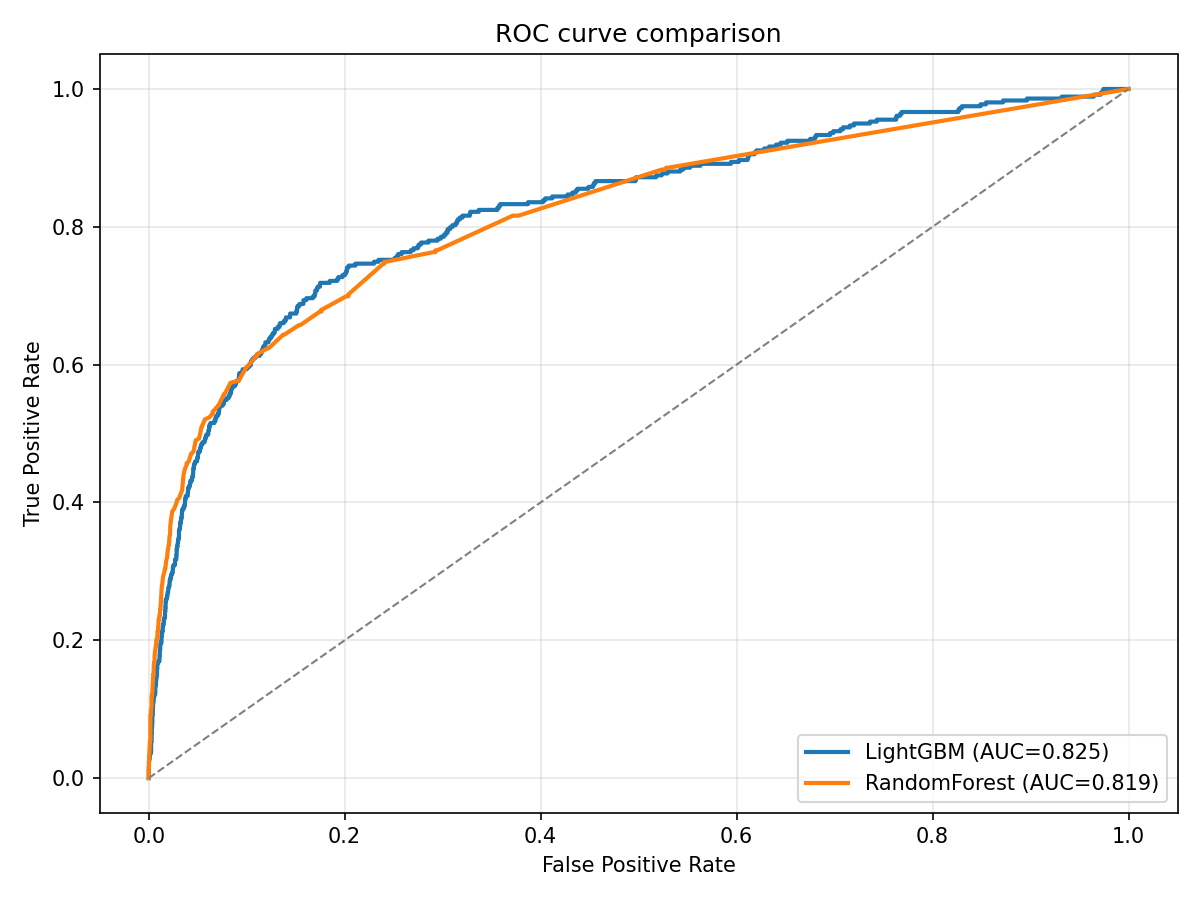
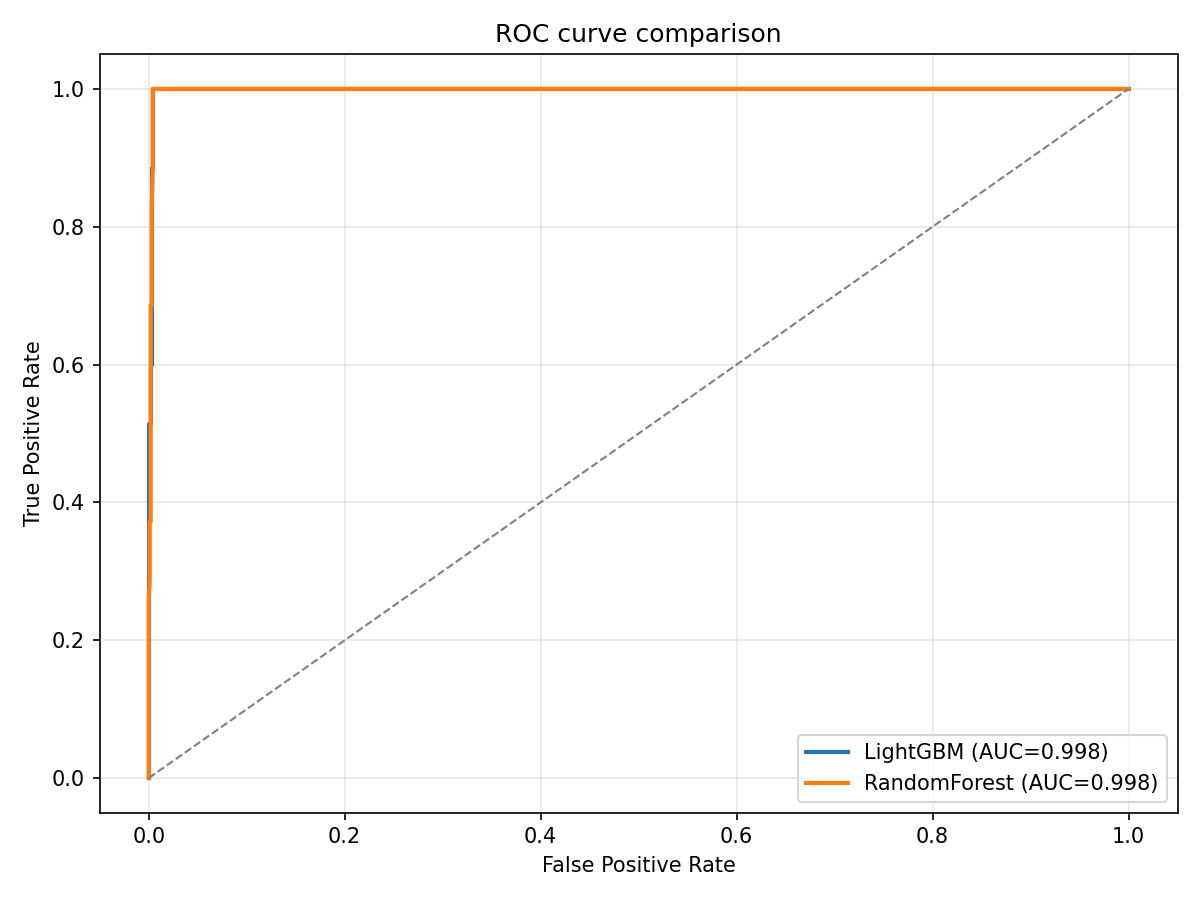
commit Day41

Changed region(s): [[0.1233, 0.0933, 0.925, 0.84], [0.2158, 0.1556, 0.6783, 0.4044], [0.7092, 0.8089, 0.9558, 0.9022]]

diff --git a/products/fraudguard/training/promote.py b/products/fraudguard/training/promote.py
@@ -1,0 +1,124 @@
+import json
+import os
+from pathlib import Path
+
+from mlflow import MlflowClient
+
+MLFLOW_TRACKING_URI = os.getenv("MLFLOW_TRACKING_URI", "http://localhost:5001")
+MODEL_NAME = os.getenv("MLFLOW_MODEL_NAME", "fraudguard-risk-model")
+
+MIN_ROC_AUC = float(os.getenv("PROMOTION_MIN_ROC_AUC", "0.60"))
+MIN_PR_AUC = float(os.getenv("PROMOTION_MIN_PR_AUC", "0.03"))
+MIN_RECALL = float(os.getenv("PROMOTION_MIN_RECALL", "0.50"))
+
+REPORT_PATH = Path("reports/model/promotion_report.json")
+
+
+def _get_candidate_version(client: MlflowClient):
+    try:
+        candidate = client.get_model_version_by_alias(MODEL_NAME, "candidate")
+        return candidate.version
+
+    except Exception as err:
+        versions = client.search_model_versions(f"name='{MODEL_NAME}'")
+        candidate_versions = [
+            version for version in versions if version.tags.get("lifecycle") == "candidate"
+        ]
+
+        if not candidate_versions:
+            raise RuntimeError("No candidate model version found.") from err
+
+        return sorted(candidate_versions, key=lambda version: int(version.version))[-1].version
+
+
+def _get_run_metrics(client: MlflowClient, model_version: str) -> dict:
+    version = client.get_model_version(MODEL_NAME, model_version)
+    run_id = version.run_id
+
+    if not run_id:
+        run_id = version.tags.get("source_run_id")
+
+    if not run_id:
+        raise RuntimeError(f"No run_id found for model version {model_version}")
+
+    run = client.get_run(run_id)
+    return run.data.metrics
+
+
+def evaluate_promotion(metrics: dict) -> tuple[bool, list[str]]:
+    failures = []
+
+    if metrics.get("roc_auc", 0.0) < MIN_ROC_AUC:
+        failures.append(f"roc_auc below threshold: {metrics.get('roc_auc')} < {MIN_ROC_AUC}")
+
+    if metrics.get("pr_auc", 0.0) < MIN_PR_AUC:
+        failures.append(f"pr_auc below threshold: {metrics.get('pr_auc')} < {MIN_PR_AUC}")
+
+    if metrics.get("recall", 0.0) < MIN_RECALL:
+        failures.append(f"recall below threshold: {metrics.get('recall')} < {MIN_RECALL}")
+
+    return len(failures) == 0, failures
+
+
+def promote_candidate(dry_run: bool = True) -> dict:
+    client = MlflowClient(tracking_uri=MLFLOW_TRACKING_URI)
+
+    candidate_version = _get_candidate_version(client)
+    metrics = _get_run_metrics(client, candidate_version)
+
+    approved, failures = evaluate_promotion(metrics)
+
+    report = {
+        "model_name": MODEL_NAME,
+        "candidate_version": candidate_version,
+        "dry_run": dry_run,
+        "approved": approved,
+        "failures": failures,
+        "thresholds": {
+            "min_roc_auc": MIN_ROC_AUC,
+            "min_pr_auc": MIN_PR_AUC,
+            "min_recall": MIN_RECALL,
+        },
+        "metrics": metrics,
+    }
+
+    if approved and not dry_run:
+        client.set_model_version_tag(
+            name=MODEL_NAME,
+            version=candidate_version,
+            key="lifecycle",
+            value="champion",
+        )
+
+        try:
+            client.set_registered_model_alias(
+                name=MODEL_NAME,
+                alias="champion",
+                version=candidate_version,
+            )
+        except Exception:
+            pass
+
+        report["status"] = "promoted"
+    elif approved:
+        report["status"] = "approved_dry_run"
+    else:
+        report["status"] = "rejected"
+
+    REPORT_PATH.parent.mkdir(parents=True, exist_ok=True)
+    REPORT_PATH.write_text(json.dumps(report, indent=2))
+
+    if not approved:
+        raise RuntimeError(json.dumps(report, indent=2))
+
+    return report
+
+
+def main() -> None:
+    dry_run = os.getenv("PROMOTION_DRY_RUN", "true").lower() == "true"
+    report = promote_candidate(dry_run=dry_run)
+    print(json.dumps(report, indent=2))
+
+
+if __name__ == "__main__":
+    main()

diff --git a/products/fraudguard/training/register.py b/products/fraudguard/training/register.py
@@ -1,0 +1,69 @@
+import json
+import os
+from pathlib import Path
+
+import mlflow
+from mlflow import MlflowClient
+
+from products.fraudguard.training.select_best_run import select_best_run
+
+MLFLOW_TRACKING_URI = os.getenv("MLFLOW_TRACKING_URI", "http://localhost:5001")
+MODEL_NAME = os.getenv("MLFLOW_MODEL_NAME", "fraudguard-risk-model")
+REPORT_PATH = Path("reports/model/registration_report.json")
+
+
+def register_candidate(run_id: str | None = None) -> dict:
+    mlflow.set_tracking_uri(MLFLOW_TRACKING_URI)
+    client = MlflowClient(tracking_uri=MLFLOW_TRACKING_URI)
+
+    selected_run_id = run_id or select_best_run()
+    model_uri = f"runs:/{selected_run_id}/model"
+
+    result = mlflow.register_model(model_uri=model_uri, name=MODEL_NAME)
+
+    client.set_model_version_tag(
+        name=MODEL_NAME,
+        version=result.version,
+        key="lifecycle",
+        value="candidate",
+    )
+
+    client.set_model_version_tag(
+        name=MODEL_NAME,
+        version=result.version,
+        key="source_run_id",
+        value=selected_run_id,
+    )
+
+    try:
+        client.set_registered_model_alias(
+            name=MODEL_NAME,
+            alias="candidate",
+            version=result.version,
+        )
+    except Exception:
+        # Older MLflow setups may not support aliases.
+        pass
+
+    report = {
+        "status": "registered",
+        "model_name": MODEL_NAME,
+        "model_version": result.version,
+        "run_id": selected_run_id,
+        "model_uri": model_uri,
+        "alias": "candidate",
+    }
+
+    REPORT_PATH.parent.mkdir(parents=True, exist_ok=True)
+    REPORT_PATH.write_text(json.dumps(report, indent=2))
+
+    return report
+
+
+def main() -> None:
+    report = register_candidate()
+    print(json.dumps(report, indent=2))
+
+
+if __name__ == "__main__":
+    main()

diff --git a/products/fraudguard/training/select_best_run.py b/products/fraudguard/training/select_best_run.py
@@ -1,0 +1,31 @@
+import os
+
+from mlflow import MlflowClient
+
+MLFLOW_TRACKING_URI = os.getenv("MLFLOW_TRACKING_URI", "http://localhost:5001")
+EXPERIMENT_NAME = os.getenv("MLFLOW_EXPERIMENT_NAME", "fraudguard-baseline")
+
+
+def select_best_run(metric_name: str = "pr_auc") -> str:
+    client = MlflowClient(tracking_uri=MLFLOW_TRACKING_URI)
+    experiment = client.get_experiment_by_name(EXPERIMENT_NAME)
+
+    if experiment is None:
+        raise RuntimeError(f"Experiment not found: {EXPERIMENT_NAME}")
+
+    runs = client.search_runs(
+        experiment_ids=[experiment.experiment_id],
+        order_by=[f"metrics.{metric_name} DESC"],
+        max_results=20,
+    )
+
+    runs = [run for run in runs if metric_name in run.data.metrics]
+
+    if not runs:
+        raise RuntimeError(f"No runs found with metric: {metric_name}")
+
+    return runs[0].info.run_id
+
+
+if __name__ == "__main__":
+    print(select_best_run())

diff --git a/docs/architecture/model-lifecycle.md b/docs/architecture/model-lifecycle.md
@@ -1,0 +1,32 @@
+# FraudGuard Model Lifecycle
+
+## Registered Model
+
+Model name:
+
+```text
+fraudguard-risk-model.
+```
+Model version:
+
+```text1.
+```
+## Lifecycle States
+
+candidate → champion → archived
+
+## Candidate
+
+A candidate model is a newly registered model version produced from a successful training run.
+
+## Champion
+
+A champion model is the active approved model version.
+
+Promotion Rules
+
+A candidate may become champion only if:
+
+roc_auc >= configured threshold
+pr_auc >= configured threshold
+recall >= configured threshold